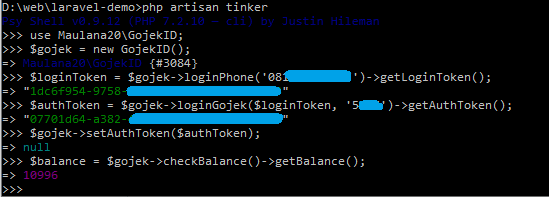
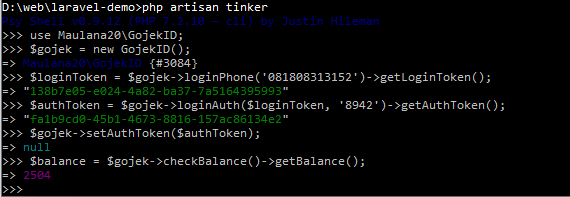
memulai untuk release 1.2.0

Changed region(s): [[0.0, 0.0, 0.929, 0.9137], [0.0, 0.9442, 0.0619, 0.9746]]

diff --git a/src/GojekID.php b/src/GojekID.php
@@ -84,7 +84,7 @@ class GojekID
 	 * @return \Maulana20\Response\LoginGojekResponse
 	 */
 	
-	public function loginGojek($loginToken, $OTP)
+	public function loginAuth($loginToken, $OTP)
 	{
 		$ch = new Curl();
 		
@@ -97,7 +97,7 @@ class GojekID
 			'client_secret'		=> '83415d06-ec4e-11e6-a41b-6c40088ab51e'
 		];
 		
-		return $ch->post(GojekID::BASE_ENDPOINT . Action::loginGojek, $data, $this->headers)->getResponse();
+		return $ch->post(GojekID::BASE_ENDPOINT . Action::loginAuth, $data, $this->headers)->getResponse();
 	}
 	
 	/**
@@ -258,7 +258,7 @@ class GojekID
 	 * @return \Maulana20\Response\DefaultResponse
 	 */
 	
-	public function gojekHistory($userId)
+	public function bookingHistory($userId)
 	{
 		$ch = new Curl();
 		
@@ -266,7 +266,7 @@ class GojekID
 		
 		$data = [];
 		
-		return $ch->get(GojekID::BASE_ENDPOINT . Action::gojekHistory . '/' . $userId, $data, $this->headers)->getResponse();
+		return $ch->get(GojekID::BASE_ENDPOINT . Action::bookingHistory . '/' . $userId, $data, $this->headers)->getResponse();
 	}
 	
 	/**
@@ -275,7 +275,7 @@ class GojekID
 	 * @return \Maulana20\Response\DefaultResponse
 	 */
 	
-	public function gojekActive()
+	public function bookingActive()
 	{
 		$ch = new Curl();
 		
@@ -283,7 +283,7 @@ class GojekID
 		
 		$data = [];
 		
-		return $ch->get(GojekID::BASE_ENDPOINT . Action::gojekActive, $data, $this->headers)->getResponse();
+		return $ch->get(GojekID::BASE_ENDPOINT . Action::bookingActive, $data, $this->headers)->getResponse();
 	}
 
 	/**
@@ -293,7 +293,7 @@ class GojekID
 	 * @return \Maulana20\Response\DefaultResponse
 	 */
 	
-	public function gojekByOrder($orderNo)
+	public function bookingByOrder($orderNo)
 	{
 		$ch = new Curl();
 		
@@ -301,7 +301,7 @@ class GojekID
 		
 		$data = [];
 		
-		return $ch->get(GojekID::BASE_ENDPOINT . Action::gojekByOrder . '/' . $orderNo, $data, $this->headers)->getResponse();
+		return $ch->get(GojekID::BASE_ENDPOINT . Action::bookingByOrder . '/' . $orderNo, $data, $this->headers)->getResponse();
 	}
 	
 	/**
@@ -310,7 +310,7 @@ class GojekID
 	 * @return \Maulana20\Response\DefaultResponse
 	 */
 	
-	public function gojekCalculate()
+	public function calculate()
 	{
 		$ch = new Curl();
 		
@@ -318,7 +318,7 @@ class GojekID
 		
 		$data = [];
 		
-		return $ch->post(GojekID::BASE_ENDPOINT . Action::gojekCalculate . '/', $data, $this->headers)->getResponse();
+		return $ch->post(GojekID::BASE_ENDPOINT . Action::calculate . '/', $data, $this->headers)->getResponse();
 	}
 	
 	/**

diff --git a/tests/GojekTest.php b/tests/GojekTest.php
@@ -8,7 +8,7 @@ use Maulana20\Meta\Action;
 
 use Maulana20\Response\LoginPhoneResponse;
 use Maulana20\Response\LoginEmailResponse;
-use Maulana20\Response\LoginGojekResponse;
+use Maulana20\Response\LoginAuthResponse;
 use Maulana20\Response\BalanceResponse;
 use Maulana20\Response\WalletResponse;
 use Maulana20\Response\TransferResponse;
@@ -51,7 +51,7 @@ class GojekTest extends TestCase
 		$this->assertSame('https://api.gojekapi.com/v3/customers/login_with_phone', GojekID::BASE_ENDPOINT . Action::loginPhone);
 		$this->assertSame('https://api.gojekapi.com/v3/customers/login_with_email', GojekID::BASE_ENDPOINT . Action::loginEmail);
 		$this->assertNotEquals('https://api.gojekapi.com', GojekID::BASE_ENDPOINT);
-		$this->assertSame('https://api.gojekapi.com/v3/customers/token', GojekID::BASE_ENDPOINT . Action::loginGojek);
+		$this->assertSame('https://api.gojekapi.com/v3/customers/token', GojekID::BASE_ENDPOINT . Action::loginAuth);
 		$this->assertSame('https://api.gojekapi.com/gojek/v2/customer', GojekID::BASE_ENDPOINT . Action::getCustomer);
 		$this->assertSame('https://api.gojekapi.com/gojek/v2/customer/edit/v2', GojekID::BASE_ENDPOINT . Action::editAccount);
 		$this->assertSame('https://api.gojekapi.com/wallet/profile', GojekID::BASE_ENDPOINT . Action::checkBalance);
@@ -85,7 +85,7 @@ JSON;
 		$this->assertEquals("e16e7cf0-7621-419d-9f67-36aa8b919f34", $loginToken);
 	}
 	
-	public function testLoginGojekResponse()
+	public function testLoginAuthResponse()
 	{
 		$data = <<<JSON
 		{
@@ -93,7 +93,7 @@ JSON;
 		}
 JSON;
 		
-		$authToken = (new LoginGojekResponse(json_decode($data)))->getAuthToken();
+		$authToken = (new LoginAuthResponse(json_decode($data)))->getAuthToken();
 		$this->assertEquals("d5579ff6-d194-473a-b3cf-0b903f5f7324", $authToken);
 	}
 	

diff --git a/src/Meta/Action.php b/src/Meta/Action.php
@@ -5,7 +5,7 @@ class Action {
 	// Akun Pengguna GOJEK
 	const loginPhone = 'v3/customers/login_with_phone';
 	const loginEmail = 'v3/customers/login_with_email';
-	const loginGojek = 'v3/customers/token';
+	const loginAuth = 'v3/customers/token';
 	const checkBalance = 'wallet/profile';
 	const getCustomer = 'gojek/v2/customer';
 	const editAccount = 'gojek/v2/customer/edit/v2';
@@ -18,10 +18,10 @@ class Action {
 	const gopayTransfer = 'v2/fund/transfer';
 	
 	// Data Booking GOJEK
-	const gojekHistory = 'gojek/v2/booking/history';
-	const gojekActive = 'v1/customers/active_bookings';
-	const gojekByOrder = 'gojek/v2/booking/findByOrderNo';
-	const gojekCalculate = 'gojek/v2/calculate/gopay';
+	const bookingHistory = 'gojek/v2/booking/history';
+	const bookingActive = 'v1/customers/active_bookings';
+	const bookingByOrder = 'gojek/v2/booking/findByOrderNo';
+	const calculate = 'gojek/v2/calculate/gopay';
 	
 	// Data GOFOOD
 	const gofoodHome = 'gofood/consumer/v2/home';

diff --git a/src/ParseResponse.php b/src/ParseResponse.php
@@ -11,7 +11,7 @@ class ParseResponse
 		// Akun Pengguna GOJEK
 		GojekID::BASE_ENDPOINT . Action::loginEmail				=> 'Maulana20\Response\LoginEmailResponse',
 		GojekID::BASE_ENDPOINT . Action::loginPhone				=> 'Maulana20\Response\LoginPhoneResponse',
-		GojekID::BASE_ENDPOINT . Action::loginGojek				=> 'Maulana20\Response\LoginGojekResponse',
+		GojekID::BASE_ENDPOINT . Action::loginAuth				=> 'Maulana20\Response\LoginAuthResponse',
 		GojekID::BASE_ENDPOINT . Action::checkBalance			=> 'Maulana20\Response\BalanceResponse',
 		GojekID::BASE_ENDPOINT . Action::getCustomer			=> 'Maulana20\Response\CustomerResponse',
 		// Akun Pengguna GOPAY

diff --git a/src/Response/LoginAuthResponse.php b/src/Response/LoginAuthResponse.php
@@ -1,7 +1,7 @@
 <?php
 namespace Maulana20\Response;
 
-class LoginGojekResponse
+class LoginAuthResponse
 {
 	private $authToken;
 	

diff --git a/README.md b/README.md
@@ -19,7 +19,7 @@ Repository Berikut Ini Merupakan Porting Dari [GOJEK](https://github.com/ridwanf
 <b>[Fitur Data Booking GOJEK](#fitur-data-booking-gojek)</b>
 - [x] Menampilkan Booking History
 - [x] Menampilkan Booking Yang Masih Aktif
-- [ ] Mengambil Data Booking Berdasarkan `orderNo`
+- [x] Mengambil Data Booking Berdasarkan `orderNo`
 - [ ] Mengkalkulasi Pemakaian GOPAY Pada GOJEK
 
 <b>[Fitur Data GOFOOD](#fitur-data-gofood)</b>
@@ -68,9 +68,9 @@ $loginToken = $gojek->loginPhone('<mobilePhone>')->getLoginToken();
 ```php
 $loginToken = $gojek->loginEmail('<Email>')->getLoginToken();
 ```
-##### Login Pada GOJEK
+##### Login Pada GOJEK Untuk Mendapatkan Auth Token
 ```php
-$authToken = $gojek->loginGojek('<loginToken>', '<OTP>')->getAuthToken();
+$authToken = $gojek->loginAuth('<loginToken>', '<OTP>')->getAuthToken();
 ```
 ##### Menampilkan Informasi Akun Pengguna
 ```php
@@ -119,22 +119,22 @@ $ref = $gojek->gopayTransfer('<QrId>', '<PIN>', '<amount>', '<description>')->ge
 ##### Menampilkan Booking History
 ```php
 $gojek->setAuthToken('<authToken>');
-$result = $gojek->gojekHistory('<userId>')->getResult();
+$result = $gojek->bookingHistory('<userId>')->getResult();
 ```
 ##### Menampilkan Booking Yang Masih Aktif
 ```php
 $gojek->setAuthToken('<authToken>');
-$result = $gojek->gojekActive()->getResult();
+$result = $gojek->bookingActive()->getResult();
 ```
 ##### Mengambil Data Booking Berdasarkan Nomor Pesanan
 ```php
 $gojek->setAuthToken('<authToken>');
-$result = $gojek->gojekByOrder('<orderNo>')->getResult();
+$result = $gojek->bookingByOrder('<orderNo>')->getResult();
 ```
 ##### Mengkalkulasi Pemakaian GOPAY Pada GOJEK
 ```php
 $gojek->setAuthToken('<authToken>');
-$result = $gojek->gojekCalculate()->getResult();
+$result = $gojek->calculate()->getResult();
 ```
 
 #### Fitur Data GOFOOD
